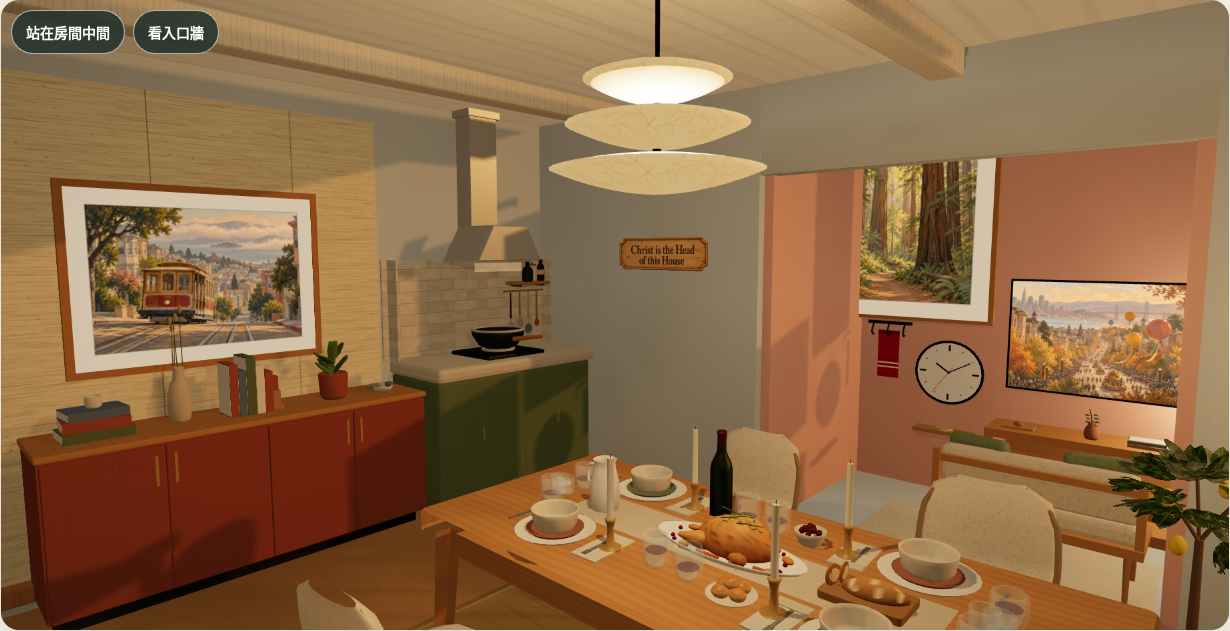
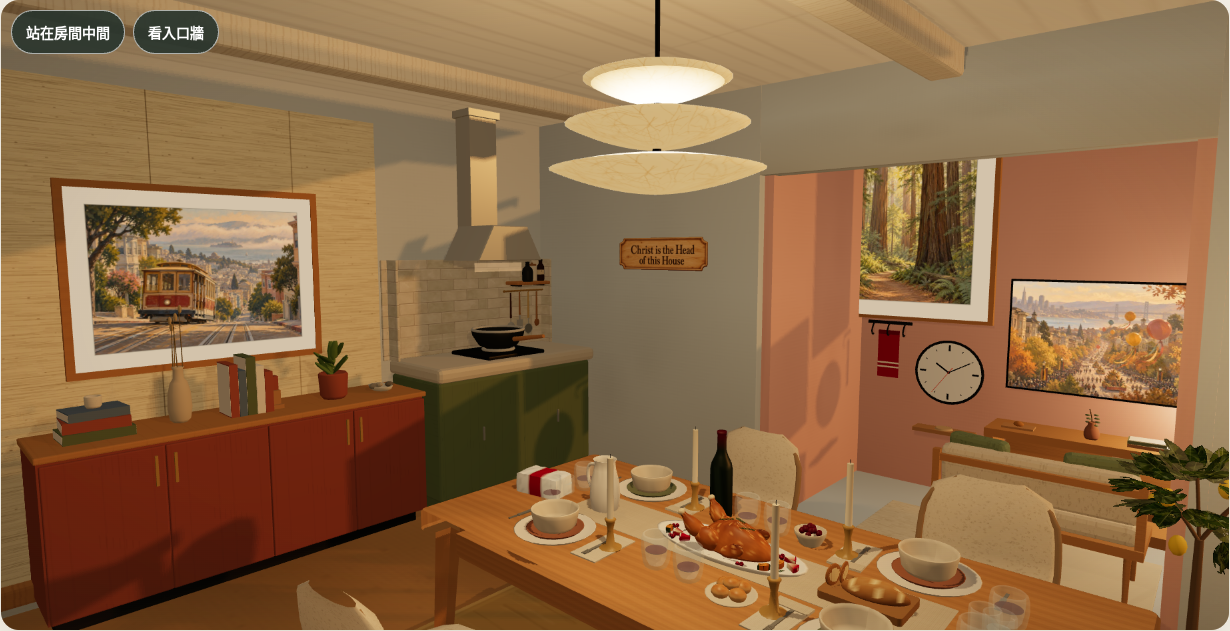
Room 03: Thanksgiving turkey v4 (anatomy, roast colour, garnish) and Costco-style napkin pack

Changed region(s): [[0.5252, 0.7829, 0.6488, 0.9033], [0.4016, 0.7227, 0.4634, 0.813]]

diff --git a/public/prototype/roomverse-3d/kitchen/kitchen.js b/public/prototype/roomverse-3d/kitchen/kitchen.js
@@ -1178,13 +1178,11 @@ function buildTableware(scene) {
     foodItems.push({ name: `drumstick-${index}`, box: finalBox, embed: index ? -0.009 : 0.002 });
   });
   // Wings tucked against the flanks.
-  const turkeyWingStart = geometryParts.food.length;
   for (const side of [-1, 1]) {
     const wing = new THREE.SphereGeometry(1, 10, 6);
     wing.scale(0.034, 0.013, 0.017); wing.rotateY(side * 0.45);
     placeFood(`wing-${side}`, wing, BX - 0.023 * FS, side * 0.042 * FS, 0xa35a24, 0xd6974d, { speckle: 0.2, burn: 0.8 }, 0.001, FS);
   }
-  const turkeyBirdEnd = geometryParts.food.length;
   // Roasted potatoes and carrots along the two long sides, lemon halves at the tail end.
   [[-0.120, 0.076, 0.017, 0.012, 0.014, 0.4], [0.060, 0.076, 0.018, 0.013, 0.015, -0.3], [-0.070, -0.076, 0.016, 0.012, 0.014, 1.1], [0.110, -0.076, 0.018, 0.012, 0.014, 0.7]].forEach(([lx, lz, rx, ry, rz, yaw], index) => {
     const potato = new THREE.SphereGeometry(1, 10, 7);
@@ -1196,7 +1194,6 @@ function buildTableware(scene) {
     carrot.rotateZ(Math.PI / 2); carrot.rotateY(yaw);
     placeFood(`carrot-${index}`, carrot, lx, lz, 0xb8591d, 0xdb8035, { speckle: 0.16, burn: 0.4 });
   });
-  const turkeyGarnishStart = geometryParts.food.length;
   [[0.212, 0.050, 0.3], [0.212, -0.050, -0.5]].forEach(([lx, lz, yaw], index) => {
     const half = new THREE.SphereGeometry(1, 10, 5, 0, Math.PI * 2, Math.PI / 2, Math.PI / 2);
     half.scale(0.019, 0.015, 0.0165);
@@ -1223,7 +1220,6 @@ function buildTableware(scene) {
     placeFood(`arugula-${index}`, leaf, lx, lz, 0x4f6a34, 0x7b9150, { speckle: 0.2 }, -(0.012 + index * 0.004));
     foodItems[foodItems.length - 1].lifted = true;
   });
-  const turkeyHerbStart = geometryParts.food.length;
   // Rosemary sprigs laid on the breast: a thin stem and a few needle-like leaves each, resting on the skin (offsets from the bird's centre).
   [[-0.038, -0.014, 0.35], [-0.018, 0.016, -0.5], [0.002, -0.006, 0.9], [0.024, 0.020, -0.2]].forEach(([dx, dz, yaw]) => {
     const worldX = PLATTER.x + BX + dx * FS, worldZ = PLATTER.z + dz * FS;
@@ -1266,85 +1262,231 @@ function buildTableware(scene) {
         part.setAttribute("uv", new THREE.BufferAttribute(uv, 2));
       }
     }
-    // Dinner retains the original roast chicken. Thanksgiving swaps the food geometry in the same mesh:
-    // a fuller bird, roasted vegetables, cranberries, squash and herbs on the existing platter.
+    // Dinner retains the original roast chicken. Thanksgiving swaps the food geometry in the same mesh (no extra draw call) for a
+    // roast turkey after the reference board (concept A): crowned breast with a breastbone ridge, thigh bulges, knobbly drumsticks with
+    // bone tips, wings tucked to the flanks, and apple wedges, acorn-squash crescents, cranberries and rosemary/thyme sprigs around it.
+    // Every piece is seated by raycast (wings against the body, garnish onto the platter, herbs onto the skin) and recorded in turkeyFit.
     let turkeyGeometry = null;
     if (kind === "food") {
-      const turkeyParts = parts.map((part, index) => {
-        if (index < turkeyWingStart) return null; // replace the chicken breast and legs with turkey-specific forms
-        if (index >= turkeyGarnishStart && index < turkeyHerbStart) return null;
-        const copy = part.clone();
-        if (index >= turkeyHerbStart) copy.userData.restOnBreast = true;
-        if (index < turkeyBirdEnd || index >= turkeyHerbStart) {
-          copy.translate(-(PLATTER.x + BX), -platterTop, -PLATTER.z);
-          copy.scale(1.10, 1.18, 1.06);
-          copy.translate(PLATTER.x + BX, platterTop, PLATTER.z);
-          copy.computeVertexNormals();
+      const T = { x: PLATTER.x + BX, z: PLATTER.z };
+      const turkeyParts = [], turkeyFit = [];
+      const tint = new THREE.Color();
+      const roastPaint = (geometry, { deep = 0x7c3c14, gold = 0xc77b34, light = 0xeab36a, crown = 0.6 } = {}) => {
+        geometry.computeBoundingBox();
+        const position = geometry.attributes.position, colors = new Float32Array(position.count * 3);
+        const floor = geometry.boundingBox.min.y, span = Math.max(1e-6, geometry.boundingBox.max.y - floor);
+        const cDeep = new THREE.Color(deep), cGold = new THREE.Color(gold), cLight = new THREE.Color(light);
+        for (let i = 0; i < position.count; i++) {
+          const x = position.getX(i), y = position.getY(i), z = position.getZ(i);
+          const h = THREE.MathUtils.clamp((y - floor) / span, 0, 1), n = foodNoise(x, y, z), mottle = 0.5 + 0.25 * Math.sin(x * 160 + z * 90) + 0.25 * Math.sin(z * 210 - y * 130);
+          tint.copy(cGold).lerp(cDeep, THREE.MathUtils.clamp(crown * h * h + 0.35 * mottle - 0.15 + (h < 0.18 ? 0.25 : 0), 0, 1));
+          if (n > 0.9 && h > 0.35) tint.lerp(cLight, 0.55);
+          else tint.multiplyScalar(1 - 0.12 * n);
+          tint.toArray(colors, i * 3);
         }
-        return copy;
-      }).filter(Boolean);
-      // A fuller breast with a flattened underside and gentle skin irregularities; built separately so dinner's chicken is unchanged.
-      const turkeyBreast = new THREE.SphereGeometry(1, 40, 26);
-      const breastPos = turkeyBreast.attributes.position;
-      for (let i = 0; i < breastPos.count; i++) {
-        const ux = breastPos.getX(i), uy = breastPos.getY(i), uz = breastPos.getZ(i);
-        const taper = ux > 0 ? 1 - 0.27 * ux * ux : 1 - 0.04 * ux * ux;
-        const skin = uy > 0 ? 0.0014 * (Math.sin(ux * 19 + uz * 9) + Math.sin(uz * 23 - ux * 7)) * uy : 0;
-        let y = uy * (uy < 0 ? 0.28 : 1) * 0.060 * (0.9 + 0.1 * taper);
-        if (uy > 0) y += 0.010 * Math.exp(-((ux + 0.32) ** 2) / 0.11) * uy - 0.003 * Math.exp(-(uz * uz) / 0.012) * uy;
-        breastPos.setXYZ(i, ux * 0.094, y + skin, uz * 0.061 * taper);
-      }
-      turkeyBreast.scale(FS, FS, FS); turkeyBreast.rotateY(0.07);
-      turkeyBreast.translate(PLATTER.x + BX, 0, PLATTER.z);
-      turkeyBreast.computeBoundingBox();
-      turkeyBreast.translate(0, platterTop - 0.002 - turkeyBreast.boundingBox.min.y, 0);
-      turkeyBreast.computeVertexNormals();
-      // The rosemary was placed for the chicken's skin; re-seat each sprig piece on the new breast so it rests 0.5 mm into the skin, not floating.
-      const breastProbe = new THREE.Mesh(turkeyBreast);
-      const herbRay = new THREE.Raycaster(), herbPoint = new THREE.Vector3(), herbDown = new THREE.Vector3(0, -1, 0);
-      for (const herb of turkeyParts) {
-        if (!herb.userData.restOnBreast) continue;
-        const herbPos = herb.attributes.position;
-        let gap = Infinity;
-        for (let i = 0; i < herbPos.count; i++) {
-          herbPoint.fromBufferAttribute(herbPos, i);
-          herbRay.set(herbPoint.clone().setY(herbPoint.y + 0.2), herbDown);
-          const hit = herbRay.intersectObject(breastProbe, false)[0];
-          if (hit) gap = Math.min(gap, herbPoint.y - hit.point.y);
+        geometry.setAttribute("color", new THREE.Float32BufferAttribute(colors, 3));
+        return geometry;
+      };
+      const flatPaint = (geometry, colourAt) => {
+        const position = geometry.attributes.position, colors = new Float32Array(position.count * 3);
+        for (let i = 0; i < position.count; i++) { tint.set(colourAt(position.getX(i), position.getY(i), position.getZ(i), foodNoise(position.getX(i), position.getY(i), position.getZ(i)))).toArray(colors, i * 3); }
+        geometry.setAttribute("color", new THREE.Float32BufferAttribute(colors, 3));
+        return geometry;
+      };
+      // Platter probe (same lathe as the ceramic platter) so garnish is seated on the real dished surface.
+      const probeGeometry = new THREE.LatheGeometry(platterProfile.map(([r, y]) => new THREE.Vector2(r, y)), 48);
+      probeGeometry.scale(PLATTER.halfLength / 0.103, 1, PLATTER.halfDepth / 0.103);
+      probeGeometry.translate(PLATTER.x, runnerTop, PLATTER.z);
+      const platterProbe = new THREE.Mesh(probeGeometry, new THREE.MeshBasicMaterial({ side: THREE.DoubleSide }));
+      const seatRay = new THREE.Raycaster(), seatPoint = new THREE.Vector3();
+      // Slide a piece along `dir` from 15 cm back until its first vertex meets one of `targets`, then push it `embed` metres in.
+      const seat = (name, geometry, dir, targets, embed = 0.0005) => {
+        geometry.translate(-dir.x * 0.15, -dir.y * 0.15, -dir.z * 0.15);
+        const position = geometry.attributes.position;
+        let travel = Infinity;
+        for (let i = 0; i < position.count; i++) {
+          seatPoint.fromBufferAttribute(position, i);
+          seatRay.set(seatPoint, dir); seatRay.far = 0.4;
+          const hit = seatRay.intersectObjects(targets, false)[0];
+          if (hit) travel = Math.min(travel, hit.distance);
         }
-        if (Number.isFinite(gap)) herb.translate(0, -gap - 0.0005, 0);
+        if (!Number.isFinite(travel)) throw new Error(`Turkey piece ${name} found nothing to rest on`);
+        geometry.translate(dir.x * (travel + embed), dir.y * (travel + embed), dir.z * (travel + embed));
+        turkeyFit.push({ name, embedMm: Number((embed * 1000).toFixed(1)) });
+        return geometry;
+      };
+      const down = new THREE.Vector3(0, -1, 0);
+      // Body: one high-segment form. Flattened underside, rounded crown with a soft breastbone ridge and two breast lobes,
+      // narrower at the neck end (-x) than at the cavity/leg end (+x).
+      const body = new THREE.SphereGeometry(1, 56, 36);
+      const bodyPos = body.attributes.position;
+      for (let i = 0; i < bodyPos.count; i++) {
+        const ux = bodyPos.getX(i), uy = bodyPos.getY(i), uz = bodyPos.getZ(i);
+        const width = 0.065 * (1 - 0.16 * (ux < 0 ? ux * ux : 0.4 * ux * ux));
+        let y = uy < 0 ? uy * 0.018 : uy * 0.074 * (1 - 0.22 * ux * ux);
+        if (uy > 0) y += uy * uy * (0.007 * Math.exp(-(uz * uz) / 0.012) + 0.006 * Math.exp(-((Math.abs(uz) - 0.42) ** 2) / 0.05)) * (1 - 0.5 * ux * ux);
+        y += uy > 0 ? 0.0009 * Math.sin(ux * 23 + uz * 11) * Math.sin(uz * 17 - ux * 5) * uy : 0;
+        bodyPos.setXYZ(i, ux * 0.122, y, uz * width);
       }
-      turkeyParts.push(paintFood(turkeyBreast, 0x9d5421, 0xe1a65d, { speckle: 0.19, burn: 0.6 }));
-      // Turkey drumsticks are fuller and rounded, with a short bone tip, rather than the chicken's long tapered legs.
+      body.translate(T.x, 0, T.z);
+      body.computeBoundingBox();
+      body.translate(0, platterTop - 0.0015 - body.boundingBox.min.y, 0);
+      body.computeVertexNormals();
+      turkeyFit.push({ name: "body", embedMm: 1.5 });
+      const bodyTop = body.boundingBox.max.y + (platterTop - 0.0015 - body.boundingBox.min.y);
+      const bodyMesh = new THREE.Mesh(body);
+      bodyMesh.updateMatrixWorld(true);
+      turkeyParts.push(roastPaint(body, { crown: 0.75 }));
+      const bodyCentreY = platterTop + 0.035;
+      // Thighs: rounded bulges where the legs meet the body (part of the same skin, so they overlap the body by design).
+      const legEnds = [];
       for (const side of [-1, 1]) {
-        const direction = new THREE.Vector3(0.9, 0.15, side * 0.42).normalize();
-        const rotation = new THREE.Quaternion().setFromUnitVectors(new THREE.Vector3(0, 1, 0), direction);
-        const origin = new THREE.Vector3(PLATTER.x + BX + 0.055, platterTop + 0.026, PLATTER.z + side * 0.040);
-        const leg = new THREE.LatheGeometry([[0,0],[0.018,0.001],[0.025,0.016],[0.027,0.035],[0.024,0.055],[0.017,0.075],[0.010,0.095],[0.007,0.105],[0,0.107]].map(([r,y]) => new THREE.Vector2(r,y)), 20);
-        leg.applyQuaternion(rotation); leg.translate(origin.x, origin.y, origin.z);
-        leg.computeBoundingBox();
-        if (leg.boundingBox.min.y < platterTop - 0.002) leg.translate(0, platterTop - 0.002 - leg.boundingBox.min.y, 0);
-        turkeyParts.push(paintFood(leg, 0x94501e, 0xe0a45b, { speckle: 0.16, burn: 0.55 }));
-        const tip = new THREE.SphereGeometry(0.006, 10, 7);
-        const end = origin.clone().addScaledVector(direction, 0.105);
-        tip.translate(end.x, end.y, end.z);
-        turkeyParts.push(paintFood(tip, 0xd5c3a0, 0xeadbc0, { speckle: 0.03 }));
+        const thigh = new THREE.SphereGeometry(1, 24, 16);
+        thigh.scale(0.046, 0.034, 0.030); thigh.rotateY(side * -0.35); thigh.rotateZ(0.35);
+        thigh.translate(T.x + 0.062, bodyCentreY + 0.006, T.z + side * 0.050);
+        turkeyParts.push(roastPaint(thigh, { crown: 0.5 }));
+        // Drumstick: fleshy, knobbly lathe rising up and back from the thigh, ending in a knuckle and a pale bone tip.
+        const dir = new THREE.Vector3(0.62, 0.70, side * 0.26).normalize();
+        const origin = new THREE.Vector3(T.x + 0.088, bodyCentreY + 0.012, T.z + side * 0.056);
+        const profile = [[0, 0], [0.016, 0.002], [0.023, 0.014], [0.0245, 0.030], [0.022, 0.046], [0.016, 0.060], [0.0105, 0.072], [0.0085, 0.080], [0.0105, 0.086], [0.0115, 0.091], [0.008, 0.096], [0, 0.098]];
+        const leg = new THREE.LatheGeometry(profile.map(([r, y]) => new THREE.Vector2(r, y)), 24, 0, Math.PI * 2);
+        const legPos = leg.attributes.position;
+        for (let i = 0; i < legPos.count; i++) {
+          const y = legPos.getY(i), a = Math.atan2(legPos.getZ(i), legPos.getX(i)), bump = y > 0.008 && y < 0.07 ? 1 + 0.06 * Math.sin(a * 3 + y * 90) : 1;
+          legPos.setXYZ(i, legPos.getX(i) * bump, y, legPos.getZ(i) * bump);
+        }
+        leg.applyQuaternion(new THREE.Quaternion().setFromUnitVectors(new THREE.Vector3(0, 1, 0), dir));
+        leg.translate(origin.x, origin.y, origin.z);
+        roastPaint(leg, { crown: 0.85, deep: 0x6e3412 });
+        // Knuckle and bone tip turn pale where the skin pulls back.
+        const legColors = leg.attributes.color, p = new THREE.Vector3();
+        for (let i = 0; i < legPos.count; i++) { p.fromBufferAttribute(legPos, i).sub(origin); if (p.dot(dir) > 0.083) new THREE.Color(0xe6d6b4).lerp(new THREE.Color(0xcdb893), foodNoise(p.x, p.y, p.z)).toArray(legColors.array, i * 3); }
+        turkeyParts.push(leg);
+        legEnds.push([origin.clone(), origin.clone().addScaledVector(dir, 0.098)]);
       }
-      for (const [x, z] of [[-0.195,-0.035],[-0.185,0.015],[-0.15,0.072],[0.16,-0.055],[0.18,-0.035],[0.195,0.025]]) {
-        const berry = new THREE.SphereGeometry(0.007, 10, 7);
-        berry.translate(PLATTER.x + x, platterTop + 0.005, PLATTER.z + z);
-        turkeyParts.push(paintFood(berry, 0x681a25, 0x9f2630, { speckle: 0.07 }));
+      // Wings tucked flat against each flank, seated sideways onto the body with a 1.5 mm embed (no longer buried in the breast).
+      for (const side of [-1, 1]) {
+        const wing = new THREE.SphereGeometry(1, 20, 12);
+        const wingPos = wing.attributes.position;
+        for (let i = 0; i < wingPos.count; i++) { const ux = wingPos.getX(i); wingPos.setX(i, ux * (ux > 0 ? 1 : 0.8)); }
+        wing.scale(0.048, 0.020, 0.011);
+        wing.rotateZ(-0.35); wing.rotateY(side * 0.12); wing.rotateX(side * -0.25);
+        wing.translate(T.x - 0.035, bodyCentreY + 0.004, T.z);
+        seat(`wing-${side}`, wing, new THREE.Vector3(0, 0, -side), [bodyMesh], 0.0015);
+        turkeyParts.push(roastPaint(wing, { crown: 0.9, deep: 0x6a3110 }));
       }
-      for (const [x, z, yaw] of [[-0.18,-0.055,0.3],[-0.18,0.04,-0.5],[0.16,0.055,0.2]]) {
-        const squash = new THREE.SphereGeometry(1, 12, 7);
-        squash.scale(0.023, 0.009, 0.014); squash.rotateY(yaw);
-        squash.translate(PLATTER.x + x, platterTop + 0.007, PLATTER.z + z);
-        turkeyParts.push(paintFood(squash, 0x9e5820, 0xd9963c, { speckle: 0.12, burn: 0.25 }));
+      // Garnish ring: apple wedges, acorn-squash crescents, cranberry clusters and rosemary/thyme sprigs on clear spots of the platter,
+      // each footprint kept off the bird, the legs and every other piece; all inside the platter's flat well.
+      const footprints = [];
+      const bodyClear = (x, z, r) => ((x - T.x) / (0.122 + r + 0.003)) ** 2 + ((z - T.z) / (0.065 + r + 0.003)) ** 2 > 1
+        && legEnds.every(([a, b]) => { const t = THREE.MathUtils.clamp(((x - a.x) * (b.x - a.x) + (z - a.z) * (b.z - a.z)) / ((b.x - a.x) ** 2 + (b.z - a.z) ** 2), 0, 1); return Math.hypot(x - a.x - t * (b.x - a.x), z - a.z - t * (b.z - a.z)) > r + 0.027; });
+      const inPlatter = (x, z, r) => Math.hypot((x - PLATTER.x) / (PLATTER.halfLength * 0.9 - r), (z - PLATTER.z) / (PLATTER.halfDepth * 0.9 - r)) <= 1;
+      const freeSpot = (x, z, r) => inPlatter(x, z, r) && bodyClear(x, z, r) && footprints.every(([fx, fz, fr]) => Math.hypot(x - fx, z - fz) > r + fr + 0.002);
+      const wedge = (outer, inner, angle, thickness, segments = 12) => {
+        const shape = new THREE.Shape();
+        shape.absarc(0, 0, outer, -angle / 2, angle / 2, false);
+        if (inner > 0) shape.absarc(0, 0, inner, angle / 2, -angle / 2, true); else shape.lineTo(0, 0);
+        const g = new THREE.ExtrudeGeometry(shape, { depth: thickness, bevelEnabled: true, bevelThickness: 0.0018, bevelSize: 0.0015, bevelSegments: 2, curveSegments: segments });
+        g.translate(-(outer + inner) / 2, 0, -thickness / 2);
+        return mergeVertices(g.deleteAttribute("normal").deleteAttribute("uv"));
+      };
+      const garnish = [];
+      const candidates = [];
+      for (let gx = -0.215; gx <= 0.216; gx += 0.0125) for (const gz of [-0.074, -0.062, -0.05, -0.035, -0.018, 0, 0.018, 0.035, 0.05, 0.062, 0.074]) candidates.push([gx, gz]);
+      candidates.sort((a, b) => Math.abs(b[0]) - Math.abs(a[0]) || Math.abs(b[1]) - Math.abs(a[1]));
+      const kinds = ["apple", "squash", "berries", "rosemary", "apple", "squash", "berries", "thyme"];
+      let made = 0;
+      for (const [lx, lz] of candidates) {
+        const type = kinds[made % kinds.length];
+        const r = type === "berries" ? 0.012 : type === "rosemary" || type === "thyme" ? 0.014 : 0.0175;
+        const x = PLATTER.x + lx, z = PLATTER.z + lz;
+        if (!freeSpot(x, z, r)) continue;
+        footprints.push([x, z, r]);
+        const outward = Math.atan2(lz / PLATTER.halfDepth, lx / PLATTER.halfLength);
+        if (type === "apple") {
+          const g = wedge(0.030, 0, 1.0, 0.012);
+          g.rotateX(-Math.PI / 2); g.rotateY(-outward); g.rotateZ(0.12);
+          g.translate(x, platterTop + 0.03, z);
+          flatPaint(g, (px, py, pz, n) => (Math.hypot(px - x, pz - z) > 0.012 && py < platterTop + 0.03 + 0.007 && Math.abs(py - (platterTop + 0.03)) > 0.004 ? (n > 0.5 ? 0xb3262c : 0x9c1f27) : Math.hypot(px - x, pz - z) > 0.016 ? (n > 0.6 ? 0xa82a2e : 0xf1e5c4) : 0xf3e9cc));
+          garnish.push([`apple-${made}`, g]);
+        } else if (type === "squash") {
+          const g = wedge(0.031, 0.019, 1.15, 0.014);
+          g.rotateX(-Math.PI / 2); g.rotateY(-outward);
+          g.translate(x, platterTop + 0.03, z);
+          flatPaint(g, (px, py, pz, n) => { return n > 0.93 ? 0x6b3a12 : (py > platterTop + 0.03 + 0.0075 ? 0xd98a2a : 0xc7731f); });
+          // Dark green rind on the outer arc.
+          const pos = g.attributes.position, col = g.attributes.color, c = new THREE.Vector3();
+          let maxD = 0; for (let i = 0; i < pos.count; i++) maxD = Math.max(maxD, Math.hypot(pos.getX(i) - x, pos.getZ(i) - z));
+          for (let i = 0; i < pos.count; i++) { if (Math.hypot(pos.getX(i) - x, pos.getZ(i) - z) > maxD - 0.004) tint.set(foodNoise(pos.getX(i), pos.getY(i), pos.getZ(i)) > 0.7 ? 0x48532a : 0x2f3d1f).toArray(col.array, i * 3); }
+          garnish.push([`squash-${made}`, g]);
+        } else if (type === "berries") {
+          for (const [ox, oz] of [[0, 0], [0.0125, 0.004], [0.004, 0.0122]]) {
+            const berry = new THREE.SphereGeometry(0.0062, 12, 9);
+            berry.translate(x + ox - 0.005, platterTop + 0.03, z + oz - 0.005);
+            flatPaint(berry, (px, py, pz, n) => (py > platterTop + 0.0335 && n > 0.7 ? 0xb83846 : n > 0.4 ? 0x7d1a28 : 0x6a1522));
+            garnish.push([`cranberry-${made}-${ox}`, berry]);
+          }
+        } else {
+          // A sprig: a thin woody stem with needles (rosemary) or small round leaves (thyme) along both sides.
+          const sprig = [];
+          const stem = new THREE.CylinderGeometry(0.0006, 0.0009, 0.042, 5); stem.rotateZ(Math.PI / 2);
+          sprig.push(flatPaint(stem, () => 0x5d5a31));
+          const count = type === "rosemary" ? 14 : 10;
+          for (let k = 0; k < count; k++) {
+            const leaf = new THREE.SphereGeometry(1, 5, 3);
+            if (type === "rosemary") leaf.scale(0.0048, 0.0006, 0.0009); else leaf.scale(0.0019, 0.0006, 0.0015);
+            leaf.rotateY((k % 2 ? 1 : -1) * (type === "rosemary" ? 0.75 : 0.4));
+            leaf.translate(-0.018 + (k >> 1) * (0.036 / (count / 2)) + (k % 2 ? 0.002 : 0), 0.0006, (k % 2 ? 1 : -1) * (type === "rosemary" ? 0.0028 : 0.0022));
+            sprig.push(flatPaint(leaf, (px, py, pz, n) => (n > 0.6 ? 0x56703c : 0x3f5a2e)));
+          }
+          const g = mergeGeometries(sprig.map((s) => s.deleteAttribute("uv") && s.deleteAttribute("normal") && s), false);
+          sprig.forEach((s) => s.dispose());
+          g.rotateY(-outward + Math.PI / 2 + (made % 3) * 0.3);
+          g.translate(x, platterTop + 0.03, z);
+          garnish.push([`${type}-${made}`, g]);
+        }
+        made++;
+        if (made >= 22) break;
       }
-      turkeyGeometry = mergeGeometries(turkeyParts, false);
-      turkeyParts.forEach((part) => part.dispose());
-      if (!turkeyGeometry) throw new Error("Could not merge Thanksgiving roast food");
+      for (const [name, g] of garnish) { g.computeBoundingBox(); seat(name, g, down, [platterProbe], 0.0005); turkeyParts.push(g); }
+      // Three sprigs laid over the crown, seated onto the skin.
+      [[-0.045, -0.012, 0.35], [-0.005, 0.014, -0.45], [0.032, -0.006, 0.8]].forEach(([dx, dz, yaw], index) => {
+        const sprig = [];
+        const stem = new THREE.CylinderGeometry(0.0006, 0.0009, 0.046, 5); stem.rotateZ(Math.PI / 2);
+        sprig.push(flatPaint(stem, () => 0x5d5a31));
+        for (let k = 0; k < 16; k++) {
+          const leaf = new THREE.SphereGeometry(1, 5, 3);
+          leaf.scale(0.0048, 0.0006, 0.0009);
+          leaf.rotateY(k % 2 ? 0.75 : -0.75);
+          leaf.translate(-0.020 + (k >> 1) * 0.0052, 0.0006, (k % 2 ? 1 : -1) * 0.0028);
+          sprig.push(flatPaint(leaf, (px, py, pz, n) => (n > 0.6 ? 0x56703c : 0x3f5a2e)));
+        }
+        const g = mergeGeometries(sprig.map((s) => s.deleteAttribute("uv") && s.deleteAttribute("normal") && s), false);
+        sprig.forEach((s) => s.dispose());
+        g.rotateY(yaw); g.translate(T.x + dx, bodyTop + 0.02, T.z + dz);
+        seat(`crown-rosemary-${index}`, g, down, [bodyMesh], 0.0005);
+        turkeyParts.push(g);
+      });
+      probeGeometry.dispose(); platterProbe.material.dispose();
+      // Match the food mesh's attribute set (position, normal, uv, color; indexed) before merging.
+      const ready = turkeyParts.map((part) => {
+        let g = part.index ? part : mergeVertices(part);
+        for (const name of Object.keys(g.attributes)) if (!["position", "color"].includes(name)) g.deleteAttribute(name);
+        g.computeVertexNormals();
+        const position = g.attributes.position, uv = new Float32Array(position.count * 2);
+        for (let i = 0; i < position.count; i++) { uv[i * 2] = position.getX(i) * 4; uv[i * 2 + 1] = position.getZ(i) * 4; }
+        g.setAttribute("uv", new THREE.BufferAttribute(uv, 2));
+        return g;
+      });
+      const template = parts[0];
+      for (const g of ready) for (const name of Object.keys(template.attributes)) if (!g.attributes[name]) throw new Error(`Turkey piece missing ${name}`);
+      for (const g of ready) for (const name of Object.keys(g.attributes)) if (!template.attributes[name]) g.deleteAttribute(name);
+      turkeyGeometry = mergeGeometries(ready, false);
+      ready.forEach((part) => part.dispose());
+      if (!turkeyGeometry) throw new Error("Could not merge Thanksgiving roast turkey");
       turkeyGeometry.computeVertexNormals();
+      group.userData.turkeyFit = turkeyFit;
+      if (globalThis.__ROOMVERSE_QA) globalThis.__ROOMVERSE_QA.turkey = { parts: ready.map((g) => g.clone()), fit: turkeyFit, platterTop };
     }
     const geometry = mergeGeometries(parts, false);
     parts.forEach((part) => part.dispose());
@@ -1539,6 +1681,34 @@ function buildThanksgivingDecor(scene) {
     return y;
   };
 
+  // Costco-style bulk pack of paper napkins (Paul 2026-10-31): a soft-plastic wrapped white stack with a generic red band and an abstract,
+  // unreadable label block (no real brand name or logo). Slightly squashed: flat base on the table, bulging sides, pinched seams at both ends.
+  {
+    const pack = new THREE.BoxGeometry(0.19, 0.074, 0.105, 16, 6, 10);
+    const packPos = pack.attributes.position;
+    for (let i = 0; i < packPos.count; i++) {
+      const x = packPos.getX(i), y = packPos.getY(i), z = packPos.getZ(i);
+      const u = x / 0.095, v = (y + 0.037) / 0.074, w = z / 0.0525;
+      const bulge = Math.sin(Math.PI * Math.min(1, v * 1.05)) * (1 - u * u * 0.6);
+      const pinch = Math.max(0, Math.abs(u) - 0.86) / 0.14;
+      const nz = z * (1 + 0.06 * bulge) * (1 - 0.10 * pinch);
+      const ny = (y + 0.037) * (1 - 0.06 * pinch) * (1 + 0.035 * (1 - w * w) * (1 - u * u)) + 0.0012 * Math.sin(x * 140 + z * 60) * v * v;
+      packPos.setXYZ(i, x * (1 - 0.02 * v * v), ny, nz);
+    }
+    pack.rotateY(0.18);
+    paint(pack, () => 0xf1f0ea);
+    const colors = pack.attributes.color, local = new THREE.Vector3(), rot = new THREE.Matrix4().makeRotationY(-0.18), c = new THREE.Color();
+    for (let i = 0; i < packPos.count; i++) {
+      local.fromBufferAttribute(packPos, i).applyMatrix4(rot);
+      const n = Math.abs(Math.sin(local.x * 191.3 + local.y * 83.7 + local.z * 151.1) * 43758.5453) % 1;
+      if (Math.abs(local.x) < 0.034) c.set(0xb0242b);
+      else c.set(n > 0.85 ? 0xdfe0dc : 0xf2f1eb);
+      // Abstract label: a cream block with a few darker bars on the band's front face (deliberately unreadable).
+      if (Math.abs(local.x) < 0.024 && local.z > 0.045 && local.y > 0.022 && local.y < 0.052) c.set(Math.sin(local.x * 900) > 0.6 && local.y > 0.034 ? 0x6e1a20 : 0xeee3cf);
+      c.toArray(colors.array, i * 3);
+    }
+    place("decor", "napkin-pack", pack, 0.80, 0.47, 0.105);
+  }
   for (const row of [0, 1]) {
     const NEAR_Z = row === 0 ? 0.72 : 0.28;
     // Burgundy-style wine bottle: dark green glass, a blank cream label band, a burgundy foil capsule.

diff --git a/tests/roomverse-kitchen-tableware.spec.js b/tests/roomverse-kitchen-tableware.spec.js
@@ -49,8 +49,10 @@ test("tableware mood flag is complete and only dinner and Thanksgiving attach it
         // v2 (linen runner, napkins, accent plates, pitcher, bread board): ceiling raised 7,000 -> 9,000 vertices per the v2 task card; measured 8,488.
         // Roast chicken feast (platter, bird, potatoes, carrots, rosemary, lemon halves, croutons): ceiling 9,000 -> 12,500 (Paul 2026-10-29); measured 11,924.
         // Thanksgiving turkey variant (fuller breast, rounded drumsticks, cranberries, squash; same food mesh, geometry swapped by mood): measured
-        // dinner 11,712 / Thanksgiving 12,820 (2026-10-31). Ceiling 12,500 -> 13,500 keeps ~5% headroom; meshes and draw calls are asserted unchanged elsewhere.
-        expect(info.tableware.vertices).toBeLessThanOrEqual(13500);
+        // dinner 11,712 / Thanksgiving 12,820 (2026-10-31, v3). v4 (Paul 2026-10-31: detail first, vertices secondary): crowned body, thighs,
+        // knobbly drumsticks, tucked wings, apple/squash/cranberry/herb garnish, all merged into the same food mesh. Measured Thanksgiving 18,798;
+        // ceiling 13,500 -> 19,750 (~5% headroom). Meshes and draw calls stay at their baselines.
+        expect(info.tableware.vertices).toBeLessThanOrEqual(19750);
         // Thanksgiving also shows its own table layer (bottle, extra glasses, cranberries, candlesticks): tracked in roomverse-kitchen-thanksgiving-decor.spec.js.
         const decor = mood === "thanksgiving" ? info.thanksgivingDecor : { vertices: 0, meshes: 0 };
         expect(info.vertices - baselineVertices).toBe(info.tableware.vertices + decor.vertices);

diff --git a/tests/roomverse-kitchen-thanksgiving-decor.spec.js b/tests/roomverse-kitchen-thanksgiving-decor.spec.js
@@ -26,7 +26,7 @@ test("the Thanksgiving table layer (bottle, two extra glasses, cranberries, cand
   expect(decor.meshes, "one opaque mesh plus glass and wine, like the place settings").toBe(3);
   expect(decor.vertices, "geometry budget for the layer").toBeLessThanOrEqual(6000);
   const names = decor.items.map((item) => item.name).sort();
-  expect(names).toEqual(["bread-plate", "candlestick-0", "candlestick-1", "candlestick-2", "candlestick-3", "cranberry-bowl", "wine-bottle", "wine-glass-0", "wine-glass-1", "wine-glass-2", "wine-glass-3"]);
+  expect(names).toEqual(["bread-plate", "candlestick-0", "candlestick-1", "candlestick-2", "candlestick-3", "cranberry-bowl", "napkin-pack", "wine-bottle", "wine-glass-0", "wine-glass-1", "wine-glass-2", "wine-glass-3"]);
   for (const item of decor.items) expect(item.gapMm, `${item.name} rests on the tabletop`).toBeLessThanOrEqual(1);
   for (const item of decor.items) expect(item.gapMm, `${item.name} is not sunk into the table`).toBeGreaterThanOrEqual(-1);
   expect(decor.items.find((item) => item.name === "wine-bottle").heightMm, "a standard 750 ml bottle is about 30 cm").toBeGreaterThanOrEqual(295);
